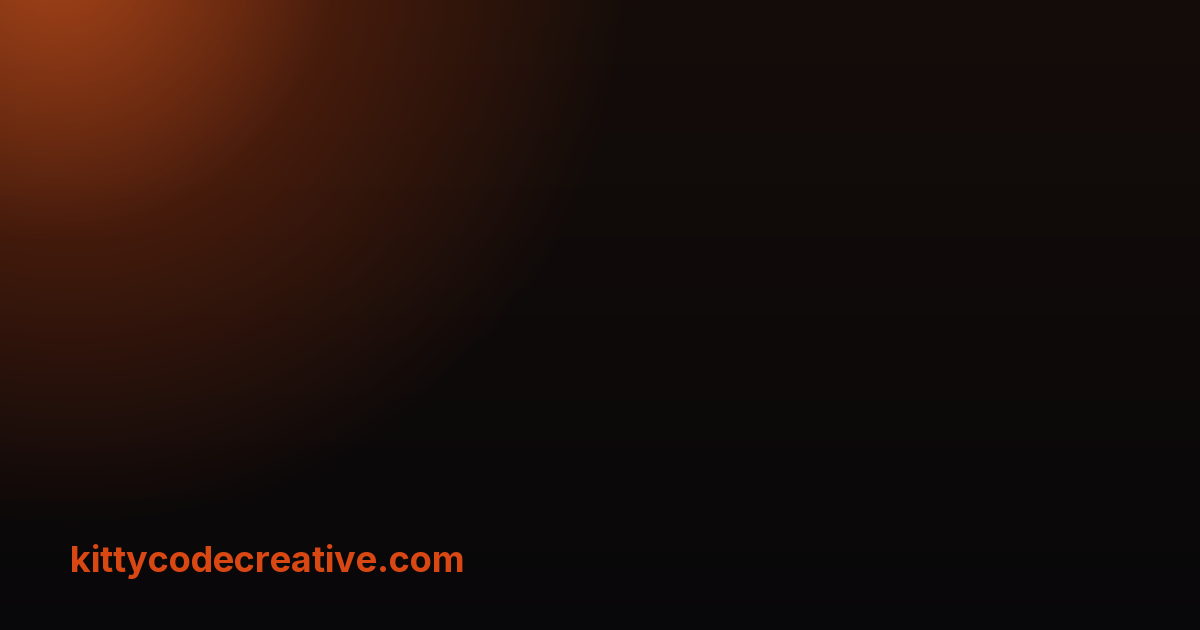
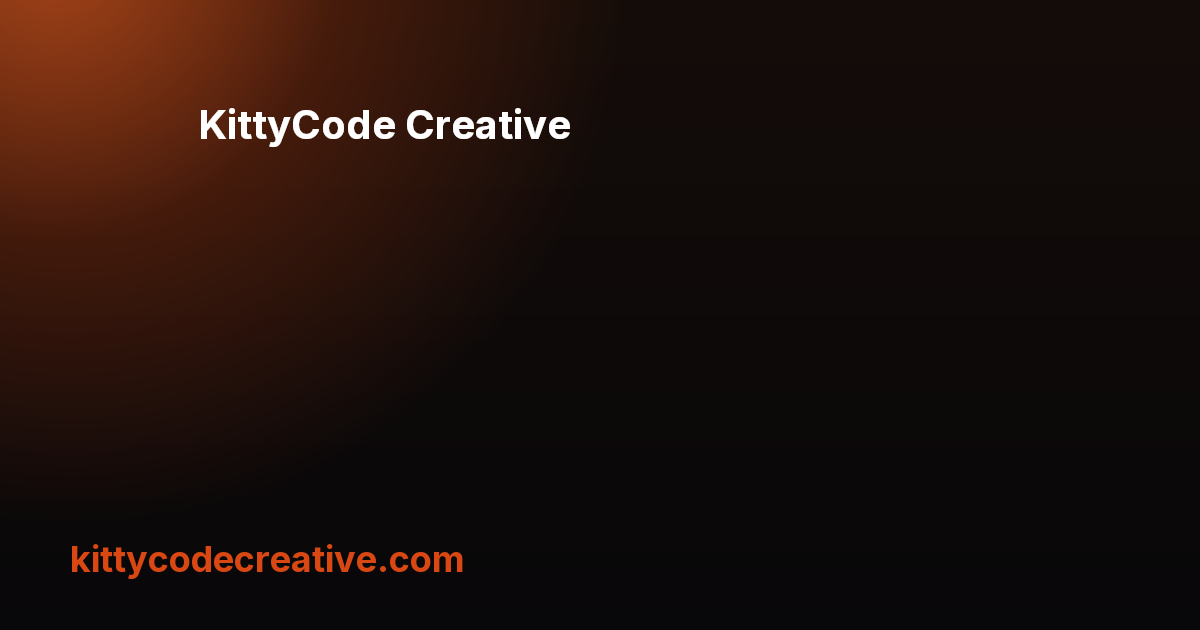
rebuild og images with wordmark & add custom og image to more pages

Changed region(s): [[0.1542, 0.181, 0.4933, 0.2413]]

diff --git a/src/lib/og.ts b/src/lib/og.ts
@@ -17,16 +17,70 @@ export interface OgEntry {
 }
 
 // Keys are the page path without leading/trailing slashes ("" is the home page).
+// The home page keeps its bespoke public/og-image.png, and dynamic pages (blog
+// posts, portfolio items) pass their own cover image, so neither is listed here.
+// Keep titles short (one line) and descriptions to ~2 lines so the card text
+// never collides with the baked-in URL footer.
 export const ogPages: Record<string, OgEntry> = {
   seo: {
     title: "SEO, AIO & GEO",
     description:
       "Websites built to be found on Google and cited by AI assistants like ChatGPT, Gemini and Copilot.",
   },
+  services: {
+    title: "Bespoke Web Design",
+    description:
+      "Fast, accessible, hand-coded websites from scratch, with SEO and hosting included as standard.",
+  },
+  portfolio: {
+    title: "Our Portfolio",
+    description:
+      "Bespoke websites hand-coded for personal brands, portfolios and small businesses.",
+  },
+  about: {
+    title: "About Us",
+    description:
+      "A bespoke web design agency in Eastbourne building accessible sites that are truly yours.",
+  },
+  contact: {
+    title: "Get in Touch",
+    description:
+      "Tell us about your project or just say hello — we reply within one working day.",
+  },
+  faq: {
+    title: "FAQs",
+    description:
+      "Answers about our packages, hosting, SEO, content updates and contracts, all in one place.",
+  },
+  "async-work": {
+    title: "Async by Default",
+    description:
+      "No mandatory meetings — your whole project runs over email, on a schedule that suits you.",
+  },
+  blog: {
+    title: "The Blog",
+    description:
+      "Insights on web design, modern CSS, accessibility and being found online.",
+  },
   referrals: {
     title: "Refer a Friend, Earn 10%",
     description:
       "Send someone our way and earn 10% of their first invoice when they book a project. No limits, no catches.",
+  },
+  "services/website-questionnaire": {
+    title: "Website Questionnaire",
+    description:
+      "Tell us about your business and goals so we can tailor the perfect website for you.",
+  },
+  "privacy-policy": {
+    title: "Privacy Policy",
+    description:
+      "How KittyCode Creative collects, uses and protects your personal information.",
+  },
+  "terms-and-conditions": {
+    title: "Terms & Conditions",
+    description:
+      "The terms that govern the use of our website and web design services.",
   },
 };
 

diff --git a/src/pages/og/[...route].ts b/src/pages/og/[...route].ts
@@ -21,14 +21,14 @@ export const { getStaticPaths, GET } = await OGImageRoute({
     font: {
       title: {
         color: [217, 71, 19],
-        size: 76,
+        size: 72,
         weight: "Bold",
         lineHeight: 1.1,
         families: ["Inter"],
       },
       description: {
         color: [214, 214, 220],
-        size: 34,
+        size: 32,
         weight: "Medium",
         lineHeight: 1.4,
         families: ["Inter"],